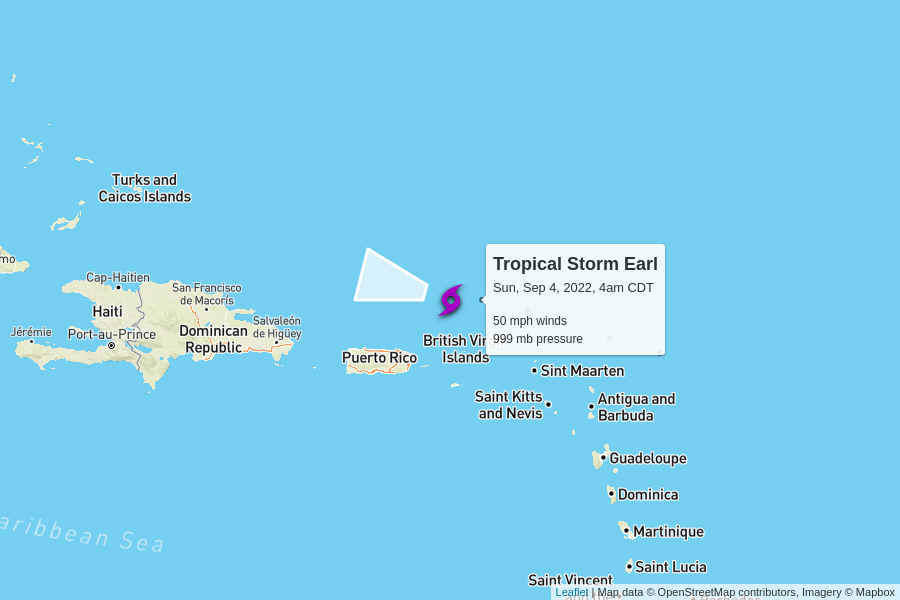
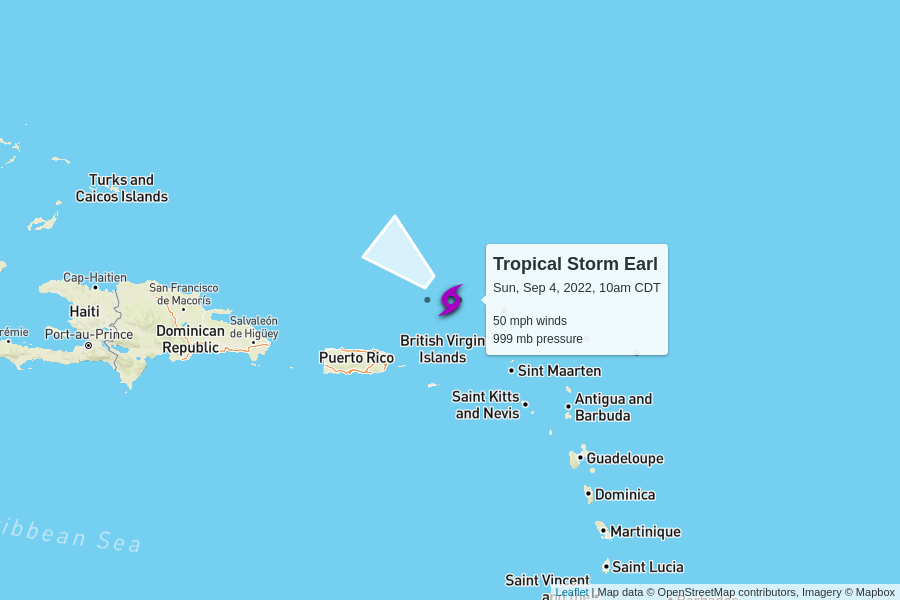
automatic update

diff --git a/docs/index.html b/docs/index.html
@@ -100,7 +100,7 @@
         <td colspan="6" class="storm category-1" >
           <h2>
             Hurricane Danielle - Category 1
-            <p class="updated">last updated <span data-time>2022-09-04T09:00:00.000Z</span></p>
+            <p class="updated">last updated <span data-time>2022-09-04T15:00:00.000Z</span></p>
           </h2>
         </td>
       </tr>
@@ -115,12 +115,12 @@
       </tr>
       <tr>
         <td class="spacer"></td>
-        <td>75 mph</td>
-        <td>988 mb</td>
+        <td>80 mph</td>
+        <td>983 mb</td>
         <td>
-          1 mph to the north
+          1 mph to the west
           <br/>
-          <span style="display: inline-block; font-size: 1.5em; transform: rotate(360deg);">↑</span>
+          <span style="display: inline-block; font-size: 1.5em; transform: rotate(270deg);">↑</span>
         </td>
         <td><a href="https://raw.githubusercontent.com/mgwalker/atlantic-hurricanes/main/data/csv/AL052022.csv">AL052022.csv</a></td>
         <td><a href="https://www.nhc.noaa.gov/archive/2022/DANIELLE.shtml?">NHC advisories</a></td>
@@ -144,7 +144,7 @@
         <td colspan="6" class="storm category-0" >
           <h2>
             Tropical Storm Earl
-            <p class="updated">last updated <span data-time>2022-09-04T09:00:00.000Z</span></p>
+            <p class="updated">last updated <span data-time>2022-09-04T15:00:00.000Z</span></p>
           </h2>
         </td>
       </tr>
@@ -162,9 +162,9 @@
         <td>50 mph</td>
         <td>999 mb</td>
         <td>
-          8 mph to the west-northwest
+          3 mph to the northwest
           <br/>
-          <span style="display: inline-block; font-size: 1.5em; transform: rotate(285deg);">↑</span>
+          <span style="display: inline-block; font-size: 1.5em; transform: rotate(310deg);">↑</span>
         </td>
         <td><a href="https://raw.githubusercontent.com/mgwalker/atlantic-hurricanes/main/data/csv/AL062022.csv">AL062022.csv</a></td>
         <td><a href="https://www.nhc.noaa.gov/archive/2022/EARL.shtml?">NHC advisories</a></td>
